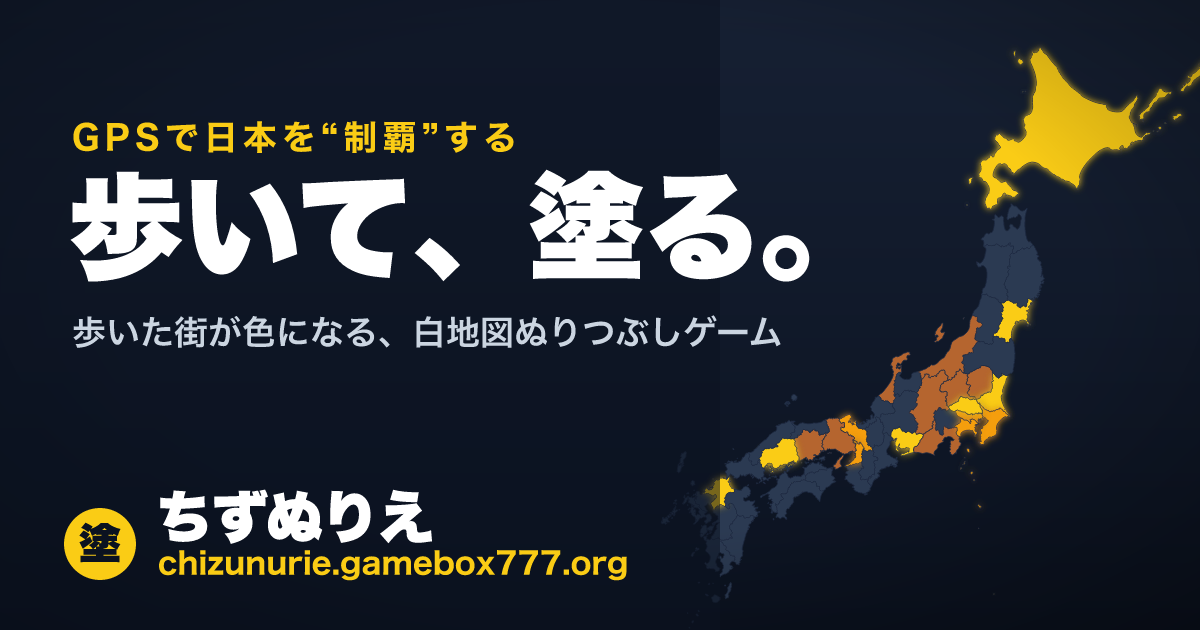
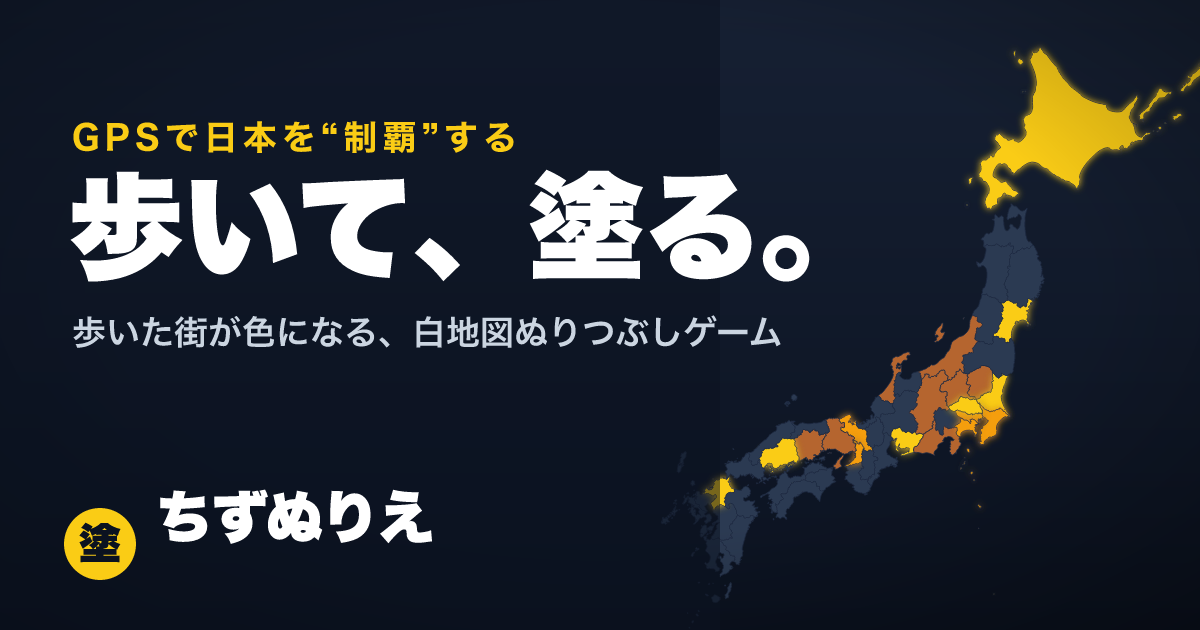
ドメイン変更

Changed region(s): [[0.1233, 0.8746, 0.5242, 0.9349]]

diff --git a/frontend/src/app/AdSenseLoader.tsx b/frontend/src/app/AdSenseLoader.tsx
@@ -1,0 +1,35 @@
+"use client";
+
+// Google AdSense（自動広告）スクリプトのローダー。
+//
+// ネイティブアプリ（mobile/ の Capacitor WebView）内では読み込まない：
+// アプリ内 WebView への AdSense 配信はポリシー違反（アプリは AdMob/Unity Ads の領分）で、
+// しかも capacitor.config.ts が UA から "; wv" を消しているため通常ブラウザに見えてしまい
+// 無効トラフィック判定のリスクがある。window.Capacitor の有無はマウント後にしか分からない
+// ので、いったん null を返してから非アプリと確定したときだけ <Script> を描画する。
+//
+// ローカル開発（localhost）でも読み込むが、AdSense は承認済みドメインにしか実広告を
+// 配信しないため、ローカルでは空枠 or 未表示になることがある（エラーではない）。
+
+import { useEffect, useState } from "react";
+import Script from "next/script";
+import { isNativeApp } from "@/lib/platform";
+
+const ADSENSE_CLIENT = "ca-pub-3466778617044617";
+
+export default function AdSenseLoader() {
+  const [enabled, setEnabled] = useState(false);
+
+  useEffect(() => {
+    if (!isNativeApp()) setEnabled(true);
+  }, []);
+
+  if (!enabled) return null;
+  return (
+    <Script
+      src={`https://pagead2.googlesyndication.com/pagead/js/adsbygoogle.js?client=${ADSENSE_CLIENT}`}
+      strategy="afterInteractive"
+      crossOrigin="anonymous"
+    />
+  );
+}

diff --git a/infra/cloudflare/apex-ads-txt.worker.js b/infra/cloudflare/apex-ads-txt.worker.js
@@ -1,20 +1,20 @@
-// Cloudflare Worker: apex（gamebox777.org）の /ads.txt を「実体200」で直接返す。
+// Cloudflare Worker: apex（unitygamebox.com）の /ads.txt を「実体200」で直接返す。
 //
-// 背景: AdSense の所有権確認は apex gamebox777.org/ads.txt を見にくる。
-// apex はアプリ本体を配信していない（サブドメイン chizunurie.gamebox777.org が本体）ため、
+// 背景: AdSense の所有権確認は apex unitygamebox.com/ads.txt を見にくる。
+// apex はアプリ本体を配信していない（サブドメイン chizunurie.unitygamebox.com が本体）ため、
 // 以前は Cloudflare の Redirect Rule で apex/ads.txt → サブドメインへ 301 していた。
 // curl 上は 301→200 で正しく見えるが、AdSense の所有権確認はこの「別ホストへの 301」を
 // 通さず「確認できませんでした」になった。そこで apex 自身が 200 で実体を返すようにする。
 //
 // デプロイ:
 //   1. Cloudflare → Workers & Pages → Create Worker → このコードを貼って Deploy。
-//   2. Worker の Settings → Triggers → Routes に  gamebox777.org/ads.txt  を追加（Zone: gamebox777.org）。
+//   2. Worker の Settings → Triggers → Routes に  unitygamebox.com/ads.txt  を追加（Zone: unitygamebox.com）。
 //   3. 既存の Redirect Rule「apex ads.txt redirect」を無効化 or 削除する。
 //      ※ Redirect Rules は Workers より前に評価されるため、残っていると 301 が先に発火して
 //        この Worker が呼ばれない。必ず無効化すること。
 //   4. apex は Proxied（オレンジクラウド）のまま（AAAA 100:: でOK。オリジンには到達しない）。
 //
-// 確認:  curl -sI https://gamebox777.org/ads.txt  が 200 / text/plain で 1 行返ればOK。
+// 確認:  curl -sI https://unitygamebox.com/ads.txt  が 200 / text/plain で 1 行返ればOK。
 
 const ADS_TXT = "google.com, pub-3466778617044617, DIRECT, f08c47fec0942fa0\n";
 

diff --git a/frontend/src/app/layout.tsx b/frontend/src/app/layout.tsx
@@ -4,6 +4,7 @@ import Script from "next/script";
 import "./globals.css";
 import { LocaleProvider } from "@/lib/i18n";
 import ServiceWorkerRegister from "./ServiceWorkerRegister";
+import AdSenseLoader from "./AdSenseLoader";
 import { RUN_MODE } from "@/lib/runtime-env";
 
 const GA_MEASUREMENT_ID = "G-CLKCJXR6CN";
@@ -18,7 +19,7 @@ const geistMono = Geist_Mono({
   subsets: ["latin"],
 });
 
-const SITE_URL = "https://chizunurie.gamebox777.org";
+const SITE_URL = "https://chizunurie.unitygamebox.com";
 const SITE_NAME = "ちずぬりえ";
 const SITE_DESC = "歩いた街が色になる、GPS白地図ぬりつぶしゲーム";
 
@@ -95,6 +96,8 @@ export default function RootLayout({
             gtag('config', '${GA_MEASUREMENT_ID}');
           `}
         </Script>
+        {/* Google AdSense（自動広告）。アプリ内 WebView では読み込まない（AdSenseLoader 参照） */}
+        <AdSenseLoader />
         <ServiceWorkerRegister />
         <LocaleProvider>{children}</LocaleProvider>
       </body>

diff --git a/mobile/capacitor.config.ts b/mobile/capacitor.config.ts
@@ -15,13 +15,13 @@ import type { CapacitorConfig } from "@capacitor/cli";
 //   - Mac 側で `npm run dev`（frontend:3000 + backend:3001）を起動しておくこと。
 //   - 実機を同一LANで使う等で別URLにしたいときは CAP_DEV_URL=http://192.168.x.x:3000 で上書き
 //     （ただし http の生IPは非セキュアなので GPS は使えない。GPS も要るなら adb reverse 方式か https）。
-// 本番ビルド（CAP_DEV なし）では https://chizunurie.gamebox777.org を開く。
+// 本番ビルド（CAP_DEV なし）では https://chizunurie.unitygamebox.com を開く。
 //
 // 注意：この url は `cap sync`/`cap copy` 実行時に評価されて native へ焼き込まれる。
 // よって CAP_DEV は「ビルド時」に必要（npm run apk が中で cap sync を呼ぶのでそこに効く）。
 const DEV = process.env.CAP_DEV === "1" || process.env.CAP_DEV === "true";
 const DEV_URL = process.env.CAP_DEV_URL ?? "http://localhost:3000";
-const PROD_URL = "https://chizunurie.gamebox777.org";
+const PROD_URL = "https://chizunurie.unitygamebox.com";
 
 const config: CapacitorConfig = {
   appId: "jp.chizunurie.app", // ← ストア用の一意ID（逆ドメイン）。確定後に変更

diff --git a/mobile/play-store/privacy-policy/index.html b/mobile/play-store/privacy-policy/index.html
@@ -35,7 +35,7 @@
   <p class="note">⚠️ 公開前に [運営者名]・[連絡先] を実際の情報に置き換えてください。</p>
 
   <p>本ポリシーは、モバイルアプリ「ちずぬりえ」（以下「本アプリ」）および
-  ウェブサイト <a href="https://chizunurie.gamebox777.org">https://chizunurie.gamebox777.org</a>
+  ウェブサイト <a href="https://chizunurie.unitygamebox.com">https://chizunurie.unitygamebox.com</a>
   （以下「本サービス」）における利用者情報の取り扱いを定めます。本アプリは本サービスを
   表示するものであり、本ポリシーは双方に適用されます。</p>
 
@@ -115,7 +115,7 @@
 
   <p>This policy describes how user information is handled in the mobile app
   "Color the Map" (the "App") and the website
-  <a href="https://chizunurie.gamebox777.org">https://chizunurie.gamebox777.org</a>
+  <a href="https://chizunurie.unitygamebox.com">https://chizunurie.unitygamebox.com</a>
   (the "Service"). The App displays the Service, so this policy applies to both.</p>
 
   <h2>1. Operator</h2>

diff --git a/frontend/src/app/delete-account/page.tsx b/frontend/src/app/delete-account/page.tsx
@@ -2,7 +2,7 @@ import type { Metadata } from "next";
 import DeleteAccountActions from "./DeleteAccountActions";
 
 // Google Play「データセーフティ → アカウント削除用 URL」要件を満たす公開ページ。
-// https://chizunurie.gamebox777.org/delete-account に公開する。
+// https://chizunurie.unitygamebox.com/delete-account に公開する。
 // 必須3条件：①アプリ/デベロッパー名に言及 ②削除リクエスト手順を目立たせる
 // ③削除/保持されるデータの種類と保持期間を明記。
 

diff --git a/frontend/src/app/robots.ts b/frontend/src/app/robots.ts
@@ -1,6 +1,6 @@
 import type { MetadataRoute } from "next";
 
-const SITE_URL = "https://chizunurie.gamebox777.org";
+const SITE_URL = "https://chizunurie.unitygamebox.com";
 
 // 管理画面はクロール不要。それ以外（地図・情報ページ）は許可する。
 export default function robots(): MetadataRoute.Robots {

diff --git a/frontend/src/app/sitemap.ts b/frontend/src/app/sitemap.ts
@@ -1,6 +1,6 @@
 import type { MetadataRoute } from "next";
 
-const SITE_URL = "https://chizunurie.gamebox777.org";
+const SITE_URL = "https://chizunurie.unitygamebox.com";
 
 // 公開ページの一覧（クローラ向け）。情報ページを追加したらここにも足す。
 export default function sitemap(): MetadataRoute.Sitemap {

diff --git a/frontend/src/components/ShareIcons.tsx b/frontend/src/components/ShareIcons.tsx
@@ -3,7 +3,7 @@
 import { useState } from 'react';
 import { useLocale } from '@/lib/i18n';
 
-const SHARE_URL = 'https://chizunurie.gamebox777.org/';
+const SHARE_URL = 'https://chizunurie.unitygamebox.com/';
 
 // X のインテント（投稿画面を別タブで開く。画像はURLのOGPカードで表示される）
 function openXIntent(text: string) {